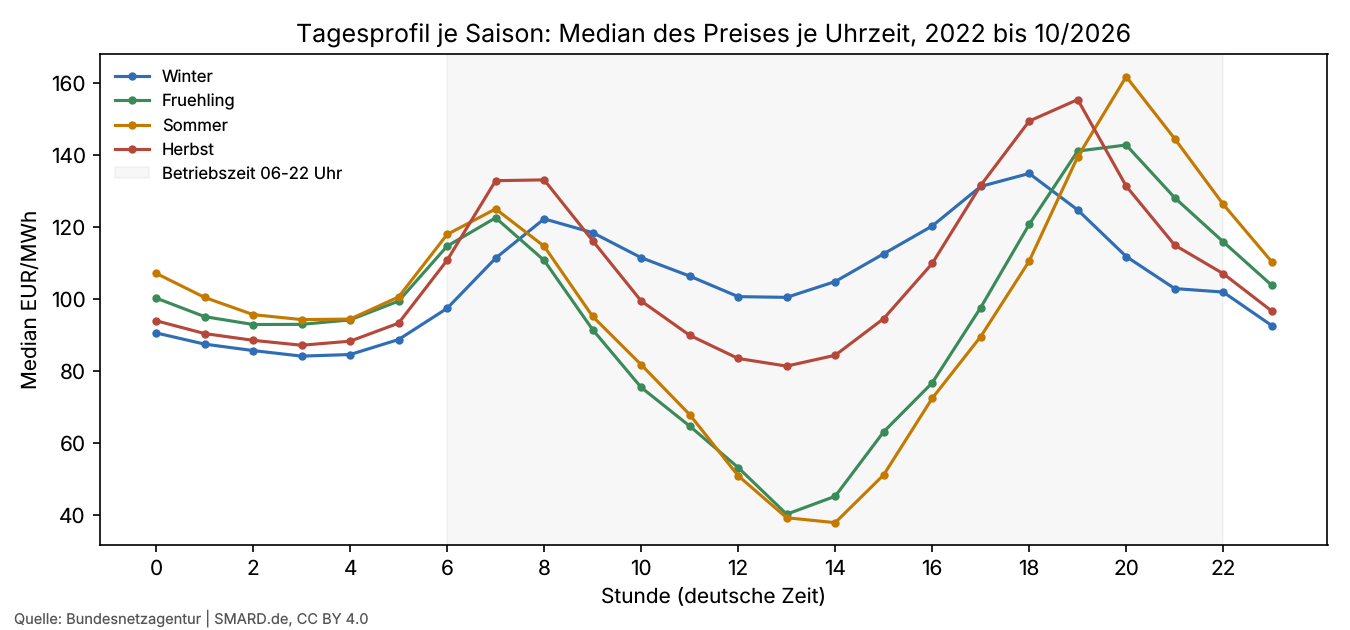
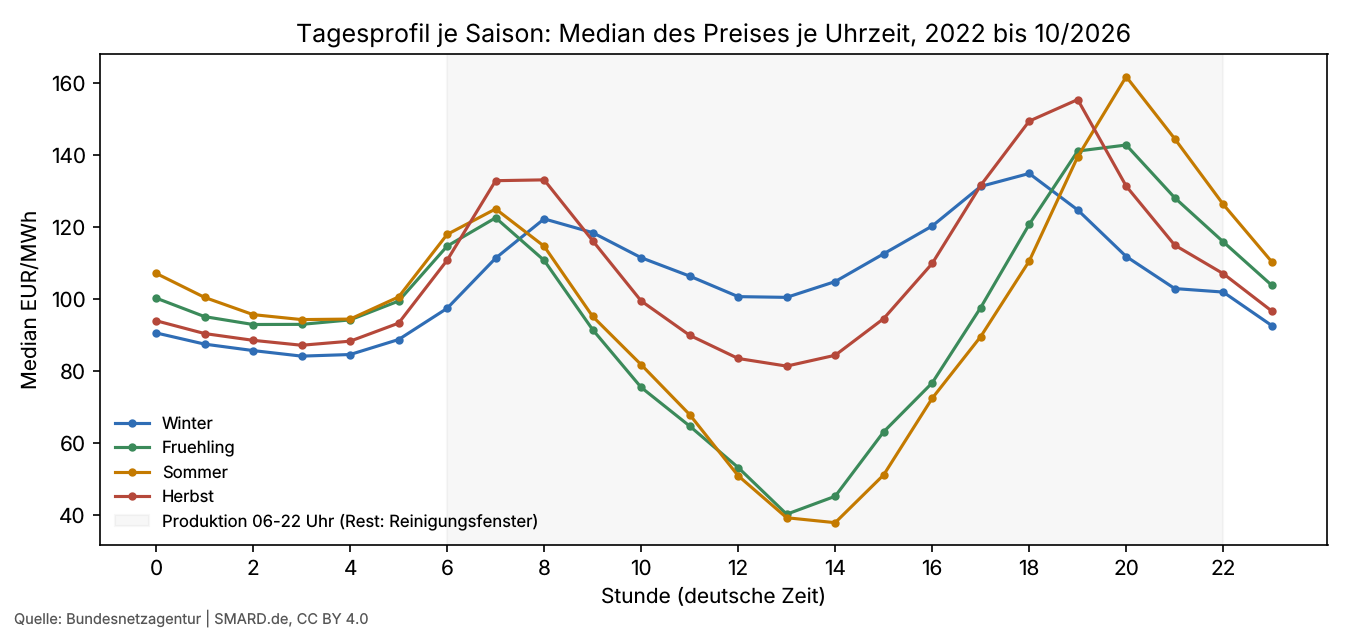
kommentare: Erklärungen an den kniffligen Stellen (Raster, Lücken, z-Wert, Join, Datengrenze); veraltete Hinweise korrigiert
AI-Assisted: Claude
Claude-Session: https://claude.ai/code/session_01XmSheTKM32DL7zwAMkPXiT

Changed region(s): [[0.0933, 0.6635, 0.4044, 0.8444], [0.0933, 0.0905, 0.2489, 0.3016]]

diff --git a/src/cleaning.py b/src/cleaning.py
@@ -47,7 +47,11 @@ class CleaningFehler(RuntimeError):
 
 
 class Log:
-    """Collects one row per cleaning step for reports/cleaning_log.md."""
+    """Collects one row per cleaning step for reports/cleaning_log.md.
+
+    Why: every step must be traceable for K2/K5 ("how many rows before and after, and why?").
+    The log is the evidence that nothing was removed or changed silently.
+    """
 
     def __init__(self):
         self.zeilen = []
@@ -77,9 +81,12 @@ def pruefe_rohdaten(raw: Path) -> list[dict]:
 
 def lies_roh(raw: Path, dateien: list[dict]) -> pd.DataFrame:
     """Stack all weekly files. Each holds "series": [[unix_ms, price], ...]; null becomes NaN."""
+    # One small table per weekly file, then all stacked below each other (concat).
     teile = [pd.DataFrame(json.loads((raw / z["datei"]).read_bytes())["series"], columns=["ms", "preis_eur_mwh"])
              for z in dateien]
     df = pd.concat(teile, ignore_index=True)
+    # SMARD counts time in milliseconds since 1970 (UTC). Converting to a UTC timestamp gives every hour
+    # exactly one unique name, even on clock-change days (see principle "key is UTC" above).
     df["ts_utc"] = pd.to_datetime(df["ms"], unit="ms", utc=True)
     df["preis_eur_mwh"] = df["preis_eur_mwh"].astype(float)
     return df[["ts_utc", "preis_eur_mwh"]]
@@ -88,7 +95,9 @@ def lies_roh(raw: Path, dateien: list[dict]) -> pd.DataFrame:
 def dubletten(df: pd.DataFrame) -> tuple[pd.DataFrame, int, int]:
     """Split duplicates into exact (same time, same price: keep one) and contradicting (same time,
     different price: stop and ask, because we cannot know which value is right)."""
+    # keep=False marks ALL copies of a doubled timestamp, not just the second one.
     mehrfach = df[df["ts_utc"].duplicated(keep=False)]
+    # Per doubled timestamp: how many DIFFERENT prices? 1 = harmless copy, >1 = contradiction.
     widerspruch = mehrfach.groupby("ts_utc")["preis_eur_mwh"].nunique(dropna=False)
     n_widerspruch = int((widerspruch > 1).sum())
     if n_widerspruch:
@@ -106,9 +115,13 @@ def intervall_laengen(df: pd.DataFrame) -> pd.Series:
 def raster_und_luecken(df: pd.DataFrame, beginn_utc: pd.Timestamp, ende_utc: pd.Timestamp) -> tuple[pd.DataFrame, pd.DataFrame]:
     """Lay the data onto the complete expected UTC hour grid. Missing hours become rows with an empty
     price (visible, not filled). Returns the gridded table and a list of gaps (start, length in hours)."""
+    # The "should" list: every UTC hour of the period. A left join keeps every hour of this list;
+    # an hour without a price in SMARD's data shows up as an empty price instead of disappearing.
     raster = pd.date_range(beginn_utc, ende_utc, freq="h", inclusive="left", tz="UTC")
     out = pd.DataFrame({"ts_utc": raster}).merge(df, on="ts_utc", how="left")
     fehlt = out["preis_eur_mwh"].isna()
+    # Group consecutive missing hours into one gap: the counter goes up whenever "missing" switches
+    # on or off, so all hours of one gap share the same number (classic run-length trick).
     block = (fehlt != fehlt.shift()).cumsum()
     luecken = (out[fehlt].groupby(block[fehlt])["ts_utc"].agg(["min", "count"])
                .rename(columns={"min": "beginn_utc", "count": "laenge_h"}).reset_index(drop=True))
@@ -126,6 +139,7 @@ def zeitspalten(df: pd.DataFrame, tz: str, wechsel: pd.Timestamp, mariae: bool) 
     out["stunde_lokal"] = lokal.dt.hour
     out["wochentag"] = lokal.dt.dayofweek            # 0 = Monday ... 6 = Sunday
     out["saison"] = lokal.dt.month.map(SAISON)
+    # Market regime: hourly auction until 30.09.2025, quarter-hour auction from 01.10.2025 (needed for H0c).
     out["regime"] = np.where(out["ts_utc"] >= wechsel.tz_convert("UTC"), "viertel", "stunde")
     out["werktag"] = werktage(pd.DatetimeIndex(lokal), mariae)
     return out
@@ -140,6 +154,8 @@ def zeitumstellungstage(df: pd.DataFrame) -> pd.DataFrame:
 
 
 def ausserhalb_preisgrenzen(df: pd.DataFrame, minimum: float, maximum: float) -> pd.DataFrame:
+    """Prices outside the exchange's technical limits (-500 / +5 000 EUR/MWh). Such a price cannot come
+    out of the auction, so it would be a data error. We do not fix it ourselves: main() stops and asks."""
     p = df["preis_eur_mwh"]
     return df[p.notna() & ((p < minimum) | (p > maximum))]
 
@@ -150,7 +166,10 @@ def robuster_z(werte: pd.Series) -> pd.Series:
     median = werte.median()
     mad = (werte - median).abs().median()
     if not mad or np.isnan(mad):
+        # MAD = 0 means more than half of the values are identical: no scale to compare with,
+        # so no hour of this group is flagged (instead of dividing by zero).
         return pd.Series(np.nan, index=werte.index)
+    # 0.6745 rescales the MAD so that the value is comparable with an ordinary z-score for normal data.
     return 0.6745 * (werte - median) / mad
 
 
@@ -158,6 +177,9 @@ def flagge_ausreisser(df: pd.DataFrame, schwelle: float) -> tuple[pd.DataFrame, 
     """flag_outlier = |modified z| > schwelle, compared within the same local year, month and hour.
     Only a flag: no value is changed or removed. Uses the whole month -> description only (look-ahead)."""
     lokal = df["ts_lokal"]
+    # Compare like with like: a 13:00 price in July 2025 only with the other 13:00 prices of July 2025.
+    # Otherwise every sunny noon hour would look "conspicuous" against the night hours.
+    # transform() returns one z-value per row, in the original order.
     z = df.groupby([lokal.dt.year, lokal.dt.month, df["stunde_lokal"]])["preis_eur_mwh"].transform(robuster_z)
     out = df.copy()
     out["flag_outlier"] = (z.abs() > schwelle).fillna(False).astype(bool)
@@ -167,9 +189,13 @@ def flagge_ausreisser(df: pd.DataFrame, schwelle: float) -> tuple[pd.DataFrame, 
 def join_last(df: pd.DataFrame, last: pd.DataFrame, start_h: int, ende_h: int) -> tuple[pd.DataFrame, int, int]:
     """Attach the daily load (synthetic, last_synth.csv) to every hour of the same local date.
     Key: local date derived from the UTC timestamp. Returns the table, unmatched price rows and unmatched
-    load days. in_betriebszeit marks the operating hours (06-22 Uhr local)."""
+    load days. in_betriebszeit marks the production hours (06-22 Uhr local); the other 8 hours are the
+    cleaning window of case S1 (diary E-033). The load value of date d belongs to the cleaning in the
+    night starting at d 22:00, see src/02_synthetisch.py."""
     l = last.rename(columns={"datum": "datum_lokal", "mwh_gesamt": "last_mwh_tag",
                              "mwh_flexibel": "last_mwh_flexibel_tag"})[["datum_lokal", "last_mwh_tag", "last_mwh_flexibel_tag"]]
+    # validate="many_to_one": many hours per date, but at most one load row per date. If the load file
+    # ever had a date twice, pandas stops here instead of silently doubling hours.
     out = df.merge(l, on="datum_lokal", how="left", validate="many_to_one")
     ohne_last = int(out["last_mwh_tag"].isna().sum())
     ohne_preis = int((~l["datum_lokal"].isin(df["datum_lokal"])).sum())
@@ -223,7 +249,7 @@ def grafiken(df: pd.DataFrame, ordner: Path) -> list[str]:
     for saison, farbe in [("Winter", "#2f6db5"), ("Fruehling", "#3b8a5a"), ("Sommer", "#c47a00"), ("Herbst", "#b5483a")]:
         prof = df[df["saison"] == saison].groupby("stunde_lokal")["preis_eur_mwh"].median()
         ax.plot(prof.index, prof.to_numpy(), marker="o", markersize=3, label=saison, color=farbe)
-    ax.axvspan(6, 22, color="#999", alpha=0.08, label="Betriebszeit 06-22 Uhr")
+    ax.axvspan(6, 22, color="#999", alpha=0.08, label="Produktion 06-22 Uhr (Rest: Reinigungsfenster)")
     ax.set_xticks(range(0, 24, 2)); ax.set_xlabel("Stunde (deutsche Zeit)"); ax.set_ylabel("Median EUR/MWh")
     ax.set_title("Tagesprofil je Saison: Median des Preises je Uhrzeit, 2022 bis 10/2026")
     ax.legend(frameon=False, fontsize=8)
@@ -243,6 +269,8 @@ def main() -> pd.DataFrame:
     (reports / "tables").mkdir(parents=True, exist_ok=True)
     log = Log()
 
+    # Period as half-open interval [beginn, ende) in German time: ende = 00:00 on the day after the
+    # data cut-off, so the last day is complete and nothing needs "23:59" tricks.
     beginn = pd.Timestamp(p["daten"]["aufloesungen"]["hour"]).tz_localize(tz)
     ende = (pd.Timestamp(p["zeitraeume"]["datenstand"]) + pd.Timedelta(days=1)).tz_localize(tz)
     wechsel = pd.Timestamp(p["markt"]["regimewechsel"]).tz_localize(tz)
@@ -315,6 +343,8 @@ def main() -> pd.DataFrame:
     log.schritt("9 Join Last", "Schlüssel: lokales Datum aus UTC-Zeitstempel; last_synth.csv (synthetisch)", vorher, len(df),
                 ohne_last + ohne_preis, f"{ohne_last} Preisstunden ohne Last, {ohne_preis} Lasttage ohne Preis")
 
+    # Write the result. Timestamps become text with an explicit time zone ("Z" = UTC, "+01:00" local),
+    # so Excel and pandas read the same moment and the October double hour stays distinguishable.
     df = df[SPALTEN]
     out = df.copy()
     out["ts_utc"] = out["ts_utc"].dt.strftime("%Y-%m-%dT%H:%M:%SZ")
@@ -353,7 +383,7 @@ Erzeugt von `src/cleaning.py`. Methode und Begründung: `docs/datenaufbereitung.
 - Stunden (UTC): {len(df)} von {df['ts_utc'].min():%d.%m.%Y %H:%M} bis {df['ts_utc'].max():%d.%m.%Y %H:%M} UTC
 - Lücken: {len(luecken)} · imputiert: {int(df['imputed'].sum())} · auffällig markiert: {int(df['flag_outlier'].sum())} ({100 * df['flag_outlier'].mean():.1f} %)
 - Stunden mit negativem Preis: {int((df['preis_eur_mwh'] < 0).sum())} ({100 * (df['preis_eur_mwh'] < 0).mean():.1f} %)
-- Zeitumstellungstage: {len(zu)} (je Jahr ein Tag mit 23 und einer mit 25 Stunden, immer sonntags; 02:00 bis 03:00 Uhr liegt außerhalb der Betriebszeit)
+- Zeitumstellungstage: {len(zu)} (je Jahr ein Tag mit 23 und einer mit 25 Stunden, immer sonntags; 02:00 bis 03:00 Uhr liegt außerhalb der Produktion, aber im Reinigungsfenster 22–06 Uhr: diese Nächte haben 7 bzw. 9 Stunden, Tagebuch E-036)
 
 ## Kennzahlen je Jahr (EUR/MWh)
 

diff --git a/src/datenzugriff.py b/src/datenzugriff.py
@@ -18,7 +18,7 @@ Typical use (R3):
         kosten = bewerte(plan, w.zielwoche, w.last)  # real prices of the planned week
 
 Rules (all switches in config/params.yaml, block `planung`):
-  * Planning happens on Friday at `planungsuhrzeit` (assumption: 12:00).
+  * Planning happens on Friday at `planungsuhrzeit` (08:00, Friday morning; practice contact K-008).
   * Known at that moment: all prices up to and including Friday 23:00. Saturday's prices come out of the
     day-ahead auction only around `day_ahead_veroeffentlichung` (12:45). If someone moves the planning
     time after that, Saturday becomes known as well; the code handles both cases.
@@ -106,7 +106,9 @@ def bekannt_bis(freitag: pd.Timestamp, params: dict | None = None) -> pd.Timesta
     params = params or lade_params()
     p, tz = params["planung"], params["markt"]["zeitzone"]
     tag = _kalendertag(freitag)
+    # Compare two clock times of the same (today's) date: "08:00" >= "12:45"? -> False -> only Friday known.
     nach_veroeffentlichung = pd.Timestamp(p["planungsuhrzeit"]) >= pd.Timestamp(p["day_ahead_veroeffentlichung"])
+    # Known up to Saturday 00:00 (= Friday complete), or up to Sunday 00:00 if Saturday's auction is out.
     tage = 2 if nach_veroeffentlichung else 1
     return (tag + pd.Timedelta(days=tage)).tz_localize(tz)
 
@@ -145,6 +147,9 @@ def planungswoche(preise: pd.DataFrame, last: pd.DataFrame, freitag: pd.Timestam
     folge_montag_tag = montag_tag + pd.Timedelta(days=7)
     montag, naechster_montag = montag_tag.tz_localize(tz), folge_montag_tag.tz_localize(tz)   # ... then 00:00 local
 
+    # History = everything strictly before the limit; target week = Mon 00:00 to next Mon 00:00.
+    # Note for case S1: the Sunday night (Sun 22:00 to Mon 06:00) ends in the FOLLOWING week, so its
+    # hours after midnight are not in `ziel` (diary A-010, R3 decides how to handle it).
     hist = preise[preise["zeit"] < grenze]
     if historie_wochen is not None:
         fenster_start = (_kalendertag(grenze) - pd.Timedelta(weeks=historie_wochen)).tz_localize(tz)
@@ -152,6 +157,8 @@ def planungswoche(preise: pd.DataFrame, last: pd.DataFrame, freitag: pd.Timestam
     ziel = preise[(preise["zeit"] >= montag) & (preise["zeit"] < naechster_montag)]
     tage = last[(last["datum"] >= montag_tag) & (last["datum"] < folge_montag_tag)]
 
+    # Safety net: these checks should never fire. If they do, someone broke the slicing above, and we
+    # stop rather than let a strategy see the future (results would look too good).
     if len(hist) and hist["zeit"].max() >= grenze:
         raise LookAheadFehler(f"Historie für {freitag:%d.%m.%Y} enthält Daten ab {grenze}.")
     if len(hist) and len(ziel) and hist["zeit"].max() >= ziel["zeit"].min():

diff --git a/src/fensteranalyse.py b/src/fensteranalyse.py
@@ -47,7 +47,7 @@ def fenster_je_tag(df: pd.DataFrame, fenster_start: int, fenster_ende: int, bloc
         im_fenster = (h >= fenster_start) | (h < fenster_ende)
     else:
         im_fenster = (h >= fenster_start) & (h < fenster_ende)
-    d = d[im_fenster].sort_values("ts_utc")
+    d = d[im_fenster].sort_values("ts_utc")                          # real time order (UTC), not clock order
 
     # Name each window after the day it starts: hours after midnight move back one calendar day.
     datum = pd.to_datetime(d["datum_lokal"])
@@ -63,6 +63,8 @@ def fenster_je_tag(df: pd.DataFrame, fenster_start: int, fenster_ende: int, bloc
         if not lueckenlos or stunden[0] != fenster_start or stunden[-1] != letzte_stunde:
             continue                                                  # incomplete window at the data edge
         preis = g["preis_eur_mwh"].to_numpy()
+        # Slide a window of block_h consecutive real hours over the night: 8-hour night, 2-hour block
+        # -> 7 candidate blocks (start 22, 23, 0, ..., 4). Mean price of each block = cost per MWh.
         mittel = [preis[i:i + block_h].mean() for i in range(len(preis) - block_h + 1)]
         i_min = min(range(len(mittel)), key=mittel.__getitem__)       # earliest start if prices tie
         i_sq = list(stunden).index(status_quo_start)                  # first hour with the status quo clock time

diff --git a/src/01_download.py b/src/01_download.py
@@ -250,7 +250,8 @@ def main() -> None:
     session = None
     neu, vorhanden = 0, 0
 
-    # --- Outer loop: one pass per resolution ("hour" from 2022, "quarterhour" from 10/2025) ---
+    # --- Outer loop: one pass per resolution. Today only "hour" from 2022 (diary E-021: hourly prices only;
+    #     the quarter-hour files are no longer downloaded). The loop stays so a resolution can be added back.
     for aufl, von in p["daten"]["aufloesungen"].items():
         beginn, ende = benoetigter_zeitraum(von, datenstand, tz)
         ordner = raw / "smard" / str(filt) / aufl

diff --git a/reports/data_quality.md b/reports/data_quality.md
@@ -7,7 +7,7 @@ Erzeugt von `src/cleaning.py`. Methode und Begründung: `docs/datenaufbereitung.
 - Stunden (UTC): 42360 von 31.12.2021 23:00 bis 31.10.2026 22:00 UTC
 - Lücken: 0 · imputiert: 0 · auffällig markiert: 1827 (4.3 %)
 - Stunden mit negativem Preis: 1862 (4.4 %)
-- Zeitumstellungstage: 10 (je Jahr ein Tag mit 23 und einer mit 25 Stunden, immer sonntags; 02:00 bis 03:00 Uhr liegt außerhalb der Betriebszeit)
+- Zeitumstellungstage: 10 (je Jahr ein Tag mit 23 und einer mit 25 Stunden, immer sonntags; 02:00 bis 03:00 Uhr liegt außerhalb der Produktion, aber im Reinigungsfenster 22–06 Uhr: diese Nächte haben 7 bzw. 9 Stunden, Tagebuch E-036)
 
 ## Kennzahlen je Jahr (EUR/MWh)
 
